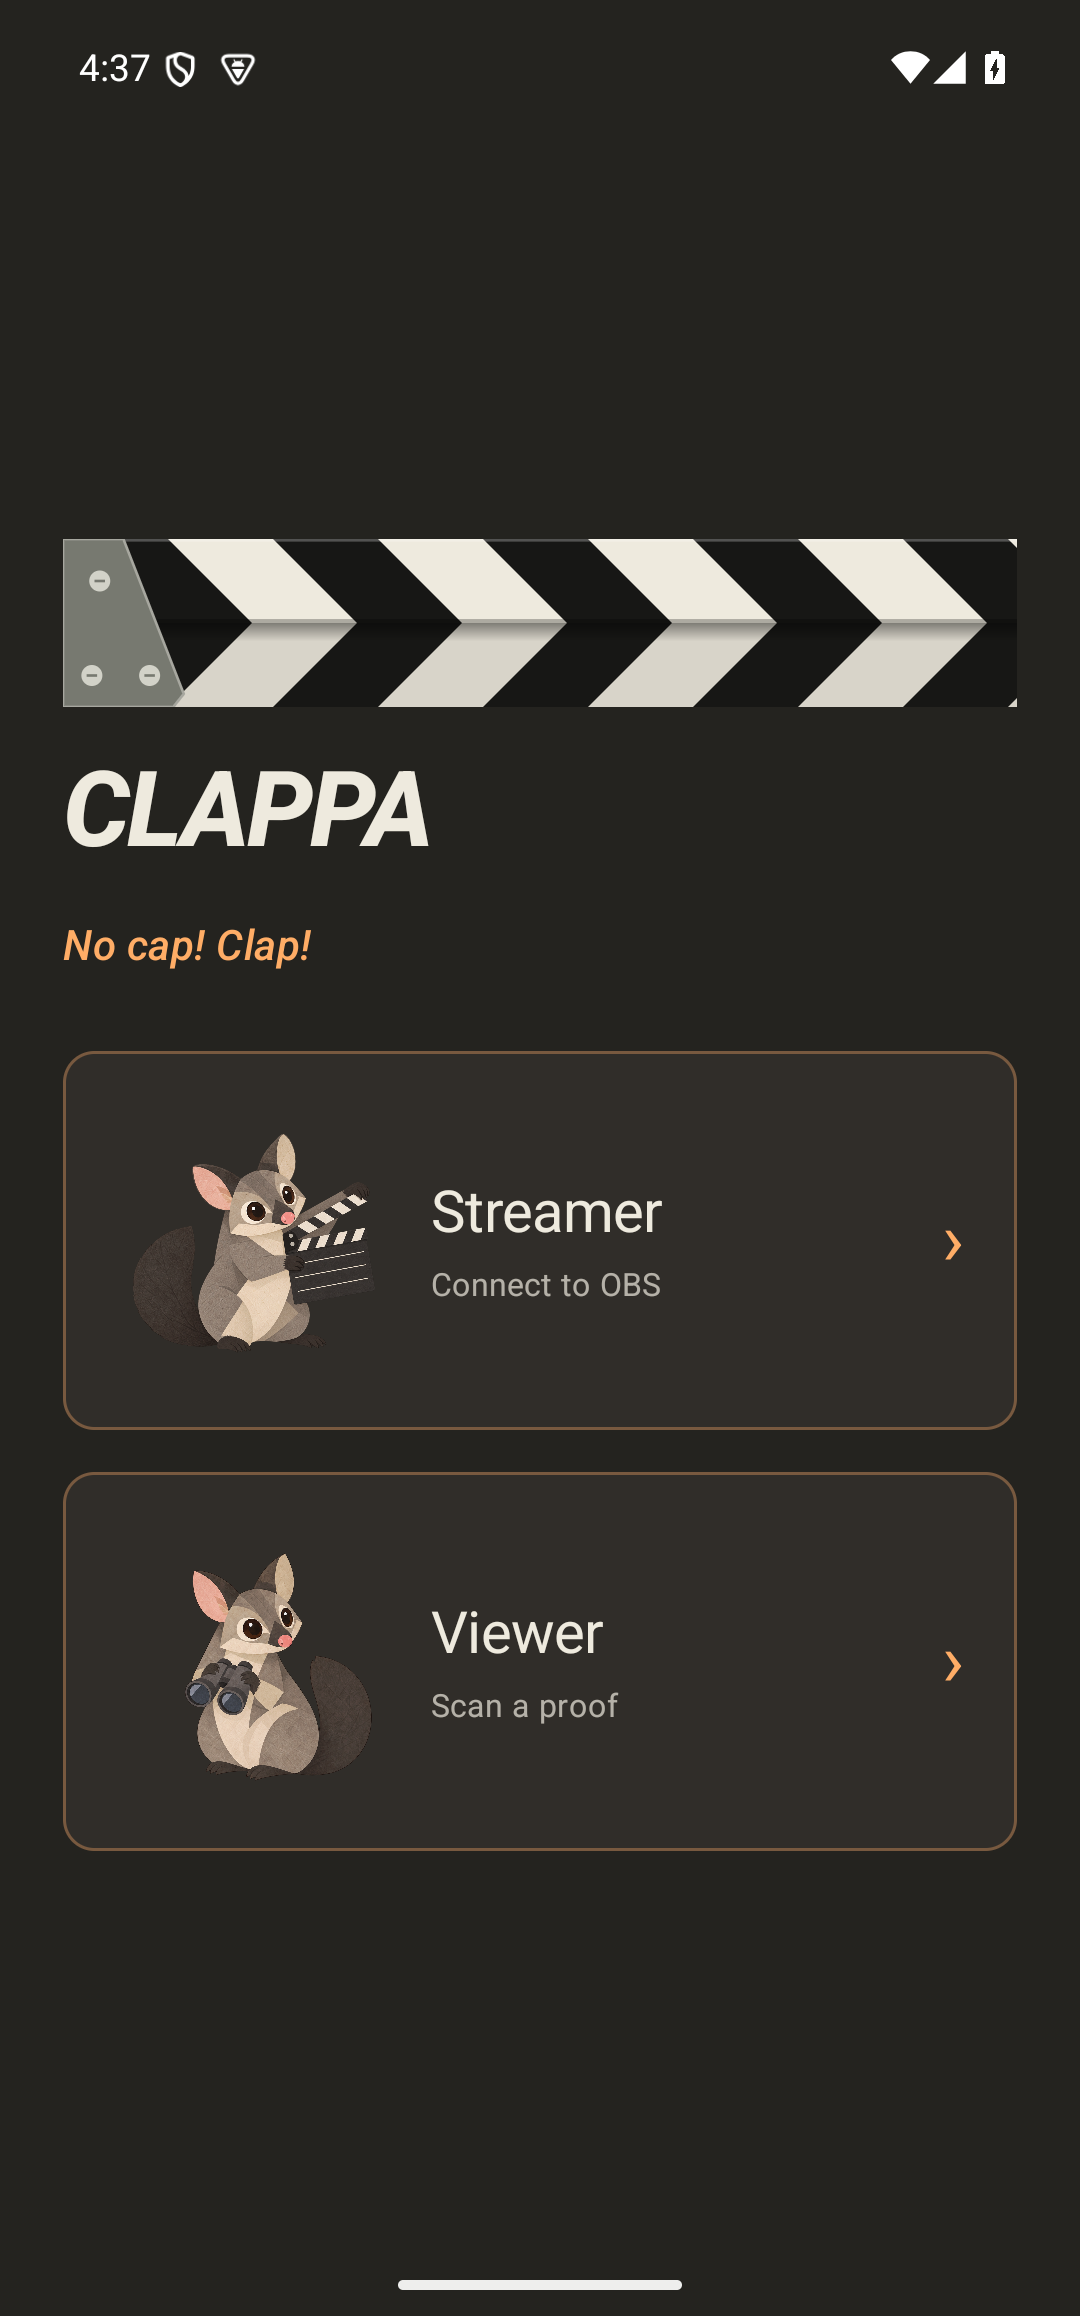
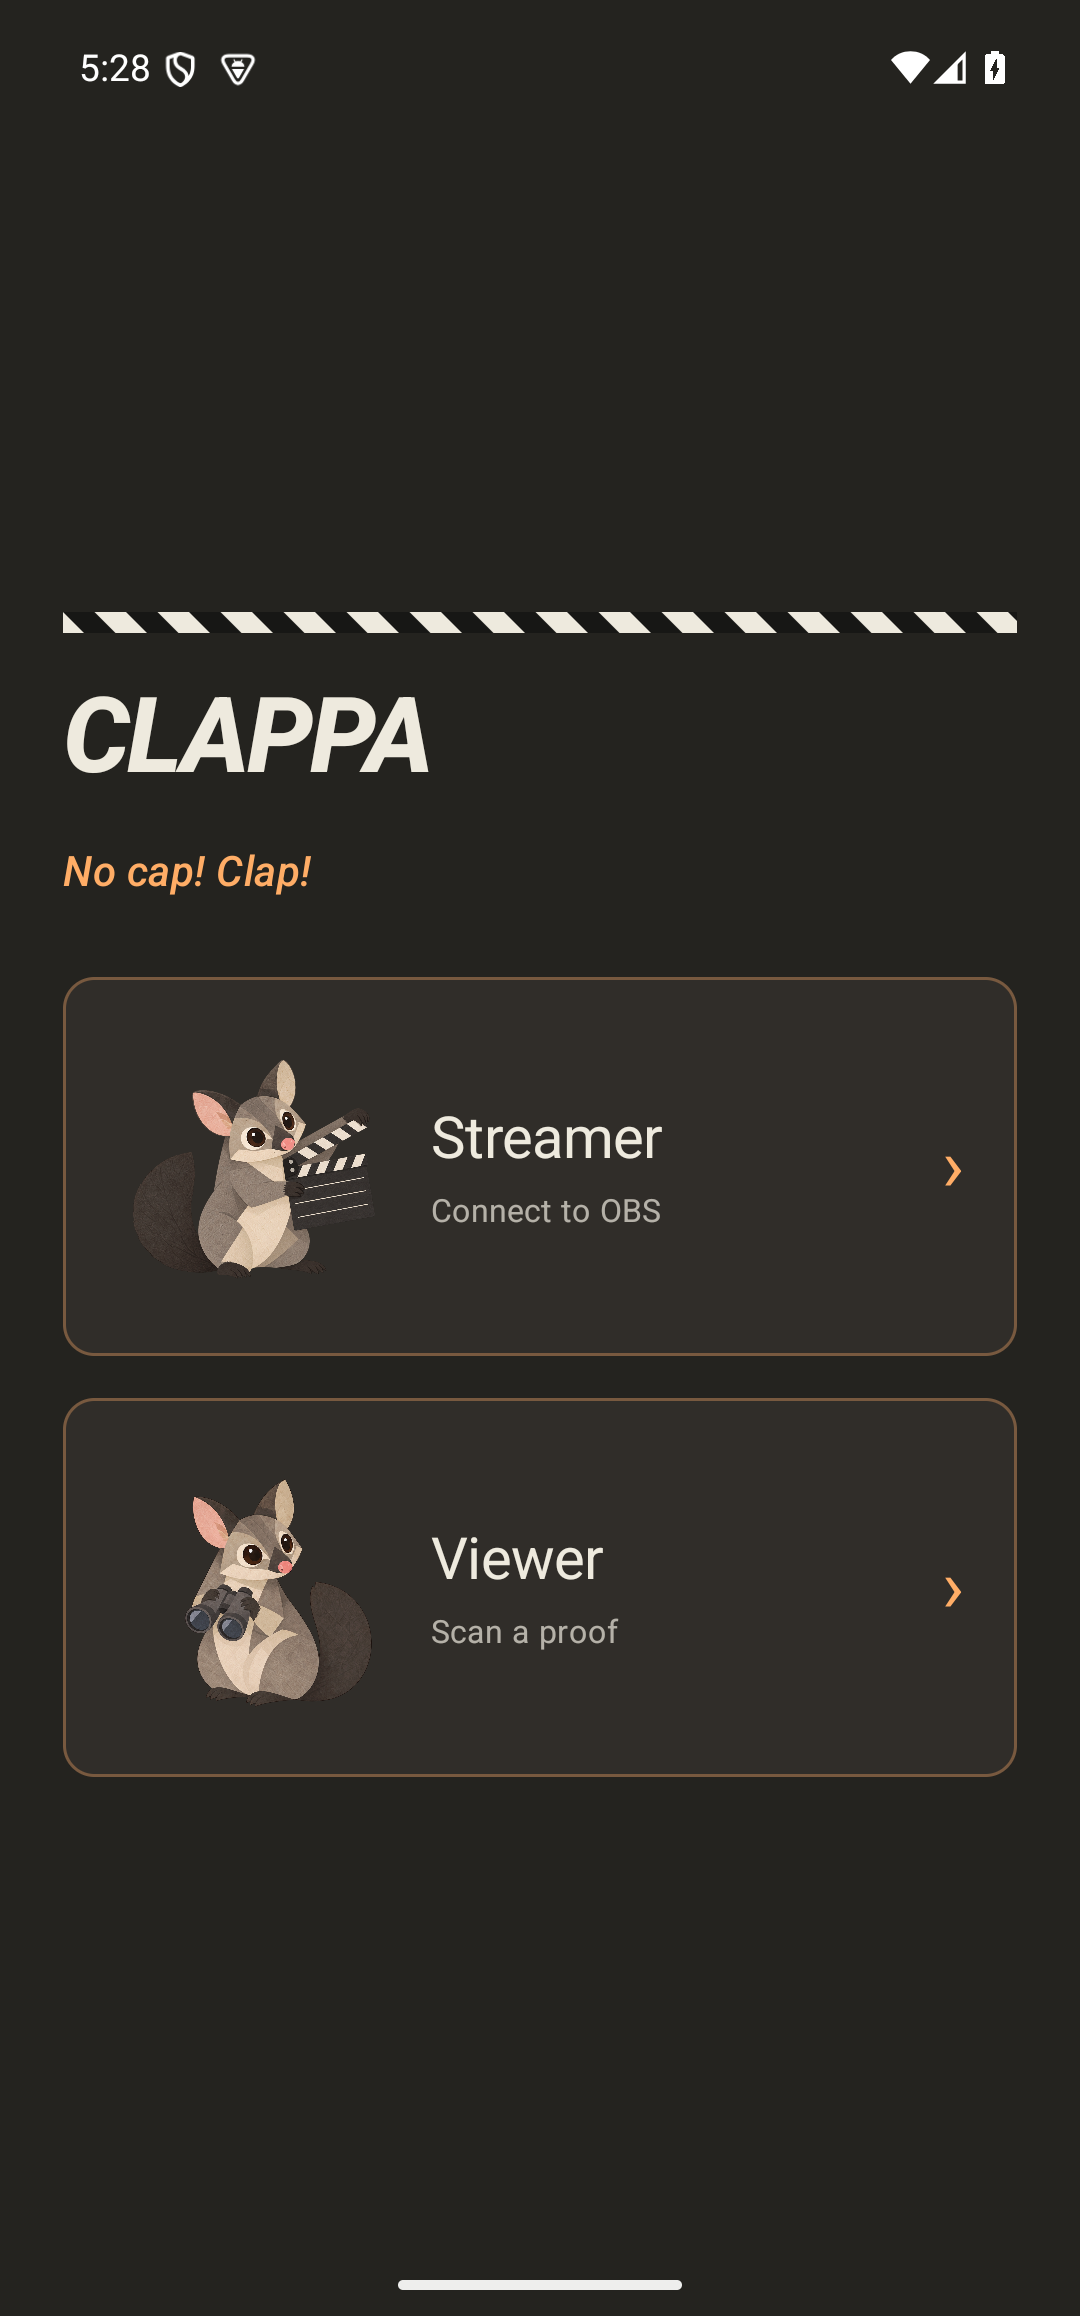
Use slim menu accents and reduce OBS header height

diff --git a/android/app/src/main/java/org/clappa/app/ViewerActivity.kt b/android/app/src/main/java/org/clappa/app/ViewerActivity.kt
@@ -35,7 +35,7 @@ import java.util.concurrent.Executors
 class HomeActivity:ComponentActivity(){
  override fun onCreate(savedInstanceState:Bundle?){super.onCreate(savedInstanceState);enableEdgeToEdge(statusBarStyle=androidx.activity.SystemBarStyle.dark(0xff24231f.toInt()),navigationBarStyle=androidx.activity.SystemBarStyle.dark(0xff24231f.toInt()));setContent{
   ClappaScreenTheme{BoxWithConstraints(Modifier.fillMaxSize().safeDrawingPadding(),contentAlignment=androidx.compose.ui.Alignment.Center){val wide=maxWidth>maxHeight;Column(Modifier.widthIn(max=if(wide)840.dp else 560.dp).fillMaxWidth().verticalScroll(rememberScrollState()).padding(24.dp),verticalArrangement=Arrangement.spacedBy(if(wide)8.dp else 16.dp)){
-   ClapperBar()
+   MenuStripe()
    Wordmark(size=if(wide)32 else 40)
    Text("No cap! Clap!",color=MenuOrange,fontStyle=androidx.compose.ui.text.font.FontStyle.Italic,style=MaterialTheme.typography.titleMedium,modifier=Modifier.padding(bottom=if(wide)0.dp else 12.dp))
    @Composable fun ModeCard(viewer:Boolean,modifier:Modifier){
@@ -69,7 +69,7 @@ open class ViewerActivity:ComponentActivity(){
  private val permission=registerForActivityResult(ActivityResultContracts.RequestPermission()){ok->cameraAllowed=ok;if(!ok)error="Camera permission is needed to scan a stream." else scanning=true}
  override fun onCreate(savedInstanceState:Bundle?){super.onCreate(savedInstanceState);enableEdgeToEdge(statusBarStyle=androidx.activity.SystemBarStyle.dark(0xff24231f.toInt()),navigationBarStyle=androidx.activity.SystemBarStyle.dark(0xff24231f.toInt()));cameraAllowed=ContextCompat.checkSelfPermission(this,Manifest.permission.CAMERA)==PackageManager.PERMISSION_GRANTED
   setContent{ClappaScreenTheme{Column(Modifier.fillMaxSize().background(Slate).safeDrawingPadding().padding(16.dp)){
-   ClapperBar()
+   MenuStripe()
    Row(Modifier.fillMaxWidth(),horizontalArrangement=Arrangement.SpaceBetween){Wordmark(size=28);TextButton(onClick={finish()}){Text("Modes")}}
    if(scanning&&cameraAllowed){Camera(Modifier.weight(1f).fillMaxWidth());Text(progress,Modifier.padding(vertical=12.dp));Text("Keep the whole code visible while its frames change.");TextButton(onClick={stopScan()}){Text("Cancel scan")}}
    else{Column(Modifier.weight(1f).verticalScroll(rememberScrollState())){

diff --git a/android/app/src/main/java/org/clappa/app/TwitchSignInActivity.kt b/android/app/src/main/java/org/clappa/app/TwitchSignInActivity.kt
@@ -24,7 +24,7 @@ class TwitchSignInActivity:ComponentActivity(){
  private var message by mutableStateOf("Show your Twitch name on your stream’s proofs.")
  private var busy by mutableStateOf(false)
  override fun onCreate(savedInstanceState:Bundle?){super.onCreate(savedInstanceState);enableEdgeToEdge(statusBarStyle=androidx.activity.SystemBarStyle.dark(0xff24231f.toInt()),navigationBarStyle=androidx.activity.SystemBarStyle.dark(0xff24231f.toInt()));Proof.initialize(this)
-  setContent{ClappaScreenTheme{Column(Modifier.fillMaxSize().background(Slate).safeDrawingPadding().verticalScroll(rememberScrollState()).padding(24.dp),verticalArrangement=Arrangement.Center){ClapperBar();Spacer(Modifier.height(16.dp));Wordmark(size=36);Text("Your Twitch account",style=MaterialTheme.typography.headlineSmall,modifier=Modifier.padding(vertical=16.dp));Text(message)
+  setContent{ClappaScreenTheme{Column(Modifier.fillMaxSize().background(Slate).safeDrawingPadding().verticalScroll(rememberScrollState()).padding(24.dp),verticalArrangement=Arrangement.Center){MenuStripe();Spacer(Modifier.height(16.dp));Wordmark(size=36);Text("Your Twitch account",style=MaterialTheme.typography.headlineSmall,modifier=Modifier.padding(vertical=16.dp));Text(message)
    Button(onClick={begin()},enabled=!busy,modifier=Modifier.padding(top=24.dp).fillMaxWidth()){Text("Sign in with Twitch")}
    TextButton(onClick={TwitchIdentity.clear(this@TwitchSignInActivity);message="Twitch identity removed from future sessions."},enabled=!busy){Text("Remove linked account")}
    TextButton(onClick={finish()}){Text("Back")}

diff --git a/android/app/src/main/java/org/clappa/app/MainActivity.kt b/android/app/src/main/java/org/clappa/app/MainActivity.kt
@@ -296,7 +296,7 @@ open class MainActivity:ComponentActivity() {
         if(settings)androidx.compose.ui.window.Dialog(onDismissRequest={settings=false},properties=androidx.compose.ui.window.DialogProperties(usePlatformDefaultWidth=false)){
           Surface(color=Slate,contentColor=Chalk,modifier=Modifier.fillMaxSize()){
            Column(Modifier.safeDrawingPadding().padding(20.dp)){
-            ClapperBar()
+            MenuStripe()
             Row(Modifier.fillMaxWidth(),horizontalArrangement=Arrangement.SpaceBetween,verticalAlignment=Alignment.CenterVertically){Text("Settings",style=MaterialTheme.typography.headlineSmall);OutlinedButton(onClick={settings=false}){Text("Done")}}
             Column(Modifier.weight(1f).fillMaxWidth().verticalScroll(androidx.compose.foundation.rememberScrollState()),verticalArrangement=Arrangement.spacedBy(10.dp)){
             Text("Twitch account",color=MenuOrange,style=MaterialTheme.typography.titleMedium)

diff --git a/android/app/src/main/java/org/clappa/app/ClappaBoard.kt b/android/app/src/main/java/org/clappa/app/ClappaBoard.kt
@@ -119,6 +119,15 @@ internal data class BoardState(val phase:BoardPhase,val connected:Boolean=false,
  }
 }
 
+@Composable internal fun MenuStripe(){
+ Canvas(Modifier.fillMaxWidth().height(8.dp).clipToBounds()){
+  drawRect(Chalk)
+  val h=size.height;val step=h*3
+  var x=-step
+  while(x<size.width){drawPath(androidx.compose.ui.graphics.Path().apply{moveTo(x,0f);lineTo(x+step/2,0f);lineTo(x+step/2+h,h);lineTo(x+h,h);close()},Color(0xff171715));x+=step}
+ }
+}
+
 @Composable internal fun ClapperBar(angle:Float=0f){
  Canvas(Modifier.fillMaxWidth().height(64.dp).clipToBounds()){
   val c=drawContext.canvas.nativeCanvas;val p=Paint(Paint.ANTI_ALIAS_FLAG);val unit=size.height/64

diff --git a/obs-plugin/src/board-art.h b/obs-plugin/src/board-art.h
@@ -14,7 +14,7 @@ inline void digital(QPainter &p, const QString &s, double x, double y, double sc
  for(auto ch:s){if(ch.isDigit()){p.setBrush(QColor(0,0,0,38));p.drawRoundedRect(QRectF(-1,-1,22.4,34.4),1,1);p.setBrush(QColor("#eeeade"));int m=masks[ch.digitValue()];for(int i=0;i<7;i++)if(m&(1<<i))p.drawRoundedRect(segments[i],1,1);p.translate(24,0);}else{if(ch==':'){p.drawEllipse(QRectF(2,9,3,3));p.drawEllipse(QRectF(2,22,3,3));}p.translate(9,0);}}p.restore();
 }
 inline void jaw(QPainter &p,bool fixed) {
- p.save();p.setClipRect(QRectF(0,fixed?32:0,848,32));
+ p.save();p.scale(1,.8);p.setClipRect(QRectF(0,fixed?32:0,848,32));
  p.fillRect(QRectF(0,fixed?32:0,848,32),QColor(fixed?"#d8d4c9":"#eeeade"));p.setBrush(QColor("#171715"));p.setPen(Qt::NoPen);
  for(int x=-80;x<880;x+=80) {
   if(fixed)p.drawPolygon(QPolygonF({{double(x+32),32},{double(x+72),32},{double(x+40),64},{double(x),64}}));
@@ -25,12 +25,14 @@ inline void jaw(QPainter &p,bool fixed) {
  p.restore();
 }
 inline void bar(QPainter &p,double angle=0) {
- p.save();p.translate(14,16);p.rotate(-angle);p.translate(-14,-16);jaw(p,false);p.restore();
+ p.save();p.translate(14,12.8);p.rotate(-angle);p.translate(-14,-12.8);jaw(p,false);p.restore();
 }
 inline void bracket(QPainter &p) {
+ p.save();p.scale(1,.8);
  p.setPen(QPen(QColor("#a7a79f"),1));p.setBrush(QColor("#777970"));
  p.drawPolygon(QPolygonF({{0,0},{23,0},{46,59},{42,64},{0,64}}));
  for(auto v:{QPointF(14,16),QPointF(11,52),QPointF(33,52)}){p.setBrush(QColor("#d2d2c8"));p.drawEllipse(v,4,4);p.drawLine(v+QPointF(-2,0),v+QPointF(2,0));}
+ p.restore();
 }
 inline void tail(QPainter &p,bool frontOnly=false){
  // One continuous silhouette; depth comes from board occlusion, not erased pixels.
@@ -53,29 +55,29 @@ inline void tail(QPainter &p,bool frontOnly=false){
 // The preview is a transparent arrangement of individually mounted prints.
 // Every print keeps its source aspect ratio; the source canvas stays stable in OBS.
 inline QImage mountedPhotos(const QImage &front,const QImage &rear=QImage()){
- QImage image(1476,876,QImage::Format_ARGB32_Premultiplied);image.fill(Qt::transparent);
+ QImage image(1548,936,QImage::Format_ARGB32_Premultiplied);image.fill(Qt::transparent);
  QPainter p(&image);p.setRenderHint(QPainter::SmoothPixmapTransform);p.setRenderHint(QPainter::Antialiasing);
- const bool dual=!rear.isNull();const double gap=30,available=dual?1446:1476;
+ const bool dual=!rear.isNull();const double gap=30,available=dual?1518:1548;
  const double r1=double(front.width())/front.height(),r2=dual?double(rear.width())/rear.height():0;
- const double h=std::min(810.,(available-(dual?48:24))/(r1+r2));
- const double total=h*(r1+r2)+(dual?48+gap:24);double x=(1476-total)/2;
+ const double h=std::min(870.,(available-(dual?48:24))/(r1+r2));
+ const double total=h*(r1+r2)+(dual?48+gap:24);double x=(1548-total)/2;
  for(const auto &photo:dual?QList<QImage>{front,rear}:QList<QImage>{front}){
-  const double w=h*photo.width()/photo.height(),y=(876-h-36)/2;
+  const double w=h*photo.width()/photo.height(),y=(936-h-36)/2;
   QRectF frame(x,y,w+24,h+36),picture(x+12,y+12,w,h);
   p.fillRect(frame.translated(5,8),QColor(0,0,0,90));p.fillRect(frame,QColor("#f5f0e5"));p.drawImage(picture,photo);
-  p.save();p.translate(frame.center().x(),y+6);p.rotate(x<738?-5:5);p.fillRect(QRectF(-50,-18,100,36),QColor("#c7b991"));p.restore();
+  p.save();p.translate(frame.center().x(),y+6);p.rotate(x<774?-5:5);p.fillRect(QRectF(-50,-18,100,36),QColor("#c7b991"));p.restore();
   x+=w+24+gap;
  }
  return image;
 }
 inline void drawPhoto(QPainter &p,const QImage &photo){
- p.save();p.setRenderHint(QPainter::SmoothPixmapTransform);p.drawImage(QRectF(10,76,504,299),photo);p.restore();
+ p.save();p.setRenderHint(QPainter::SmoothPixmapTransform);p.drawImage(QRectF(8,62,516,312),photo);p.restore();
 }
 inline QImage dualPhoto(const QImage &front,const QImage &rear){return mountedPhotos(front,rear);}
 inline QImage proof(const QImage &photo,const QImage &qr,qint64 at,const QString &prompt,bool fresh=false,const QString &twitchName={}) {
  QImage im(Width*3,Height*3,QImage::Format_ARGB32_Premultiplied);im.fill(Qt::transparent);QPainter p(&im);p.setRenderHint(QPainter::Antialiasing);p.setRenderHint(QPainter::TextAntialiasing);p.scale(3,3);p.translate(12,40);
- p.fillRect(QRectF(0,32,848,408),QColor("#2d2c27"));
- p.setPen(QPen(QColor(255,255,255,25),1));p.drawLine(1,65,1,438);p.drawLine(1,438,846,438);
+ p.fillRect(QRectF(0,25.6,848,414.4),QColor("#2d2c27"));
+ p.setPen(QPen(QColor(255,255,255,25),1));p.drawLine(1,52,1,438);p.drawLine(1,438,846,438);
  jaw(p,true);
 
  drawPhoto(p,photo);
@@ -96,7 +98,7 @@ inline QImage proof(const QImage &photo,const QImage &qr,qint64 at,const QString
  return im;
 }
 inline QImage arming(const QImage &qr,const QString &digest,qint64 target){
- QImage im(Width*3,Height*3,QImage::Format_ARGB32_Premultiplied);im.fill(Qt::transparent);QPainter p(&im);p.setRenderHint(QPainter::Antialiasing);p.setRenderHint(QPainter::TextAntialiasing);p.scale(3,3);p.translate(12,40);p.fillRect(QRectF(0,32,848,408),QColor("#2d2c27"));jaw(p,true);
+ QImage im(Width*3,Height*3,QImage::Format_ARGB32_Premultiplied);im.fill(Qt::transparent);QPainter p(&im);p.setRenderHint(QPainter::Antialiasing);p.setRenderHint(QPainter::TextAntialiasing);p.scale(3,3);p.translate(12,40);p.fillRect(QRectF(0,25.6,848,414.4),QColor("#2d2c27"));jaw(p,true);
  p.setPen(QColor("#eeeade"));QFont font("Arial");font.setPixelSize(31);font.setBold(true);p.setFont(font);p.drawText(QRectF(24,130,490,50),"Challenge locked");font.setPixelSize(19);font.setBold(false);p.setFont(font);p.drawText(QRectF(24,192,490,40),"Waiting for the fresh beacon…");font.setPixelSize(15);p.setFont(font);p.drawText(QRectF(24,247,480,40),"Stream commitment · "+digest);
  p.drawText(QRectF(24,389,640,34),"Quicknet pulse · "+QDateTime::fromMSecsSinceEpoch(target,Qt::UTC).toString("HH:mm:ss 'GMT'"));p.drawImage(QRectF(536,80,292,292),qr);
  font.setPixelSize(24);font.setBold(true);font.setItalic(true);p.setFont(font);p.drawText(QRectF(717,402,111,32),Qt::AlignRight|Qt::AlignVCenter,"CLAPPA");return im;

diff --git a/AGENTS.md b/AGENTS.md
@@ -6,6 +6,8 @@
 
 # AGENTS.md — CLAPPA Repository Instructions
 
+**Test16.1 refinement:** Ordinary phone menus use only an 8dp diagonal stripe accent, no hinge or metal plate. Reserve the complete skeuomorphic board for capture. OBS jaws/hinge are 20% shorter; enlarged photo region preserves aspect ratio. Keep QR geometry unchanged. This supersedes Test16's full menu-jaw headers.
+
 **Test16 presentation contract:** Shared charcoal surfaces, mirrored black/white clapper jaws and orange accents apply to home, viewer, settings and OBS dock menus. Streamer settings are full-screen and scrollable; Viewer mode belongs on the home menu. Use distinct headings and outlined controls, with text explaining recording-locked camera settings instead of a disabled switch. OBS public identity is selectable/copyable in Settings, never appended to status prose. Every photo is an independent aspect-preserving taped print; do not reintroduce a framed landscape composite around multiple photos. Source dimensions remain stable. See docs/test16.md.
 
 **Test14 (2026-10-01):** Streamer/Viewer modes and optional Twitch OIDC evidence now exist. Preserve the nonce binding to the phone key, separately signed per-photo identity binding, first full token/later digest-reference QR policy, and explicit unverified state when issuer evidence or trusted Twitch keys are missing. Never publish an access token or client secret. Callback is exactly `http://localhost:3000`, a short-lived phone loopback listener; old custom-scheme redirect advice was incorrect. Native viewer uses the generated shared schema and real signature/beacon verification. Live account authorization is not yet confirmed. See `docs/test14.md` and `docs/review14/TWITCH-IDENTITY.md`; do not relabel fixture signatures as real Twitch authorization.

diff --git a/README.md b/README.md
@@ -10,7 +10,7 @@ CLAPPA pairs an Android phone with OBS. Tap the clapperboard, hear a little musi
 
 No CLAPPA account. No hosted proof storage. Your signing identity and original evidence stay with you.
 
-**[Download the Test16 preview](https://github.com/dagnabbitdamien/clappa/releases/tag/test16)** · [Build notes](docs/test16.md) · [Developer setup](docs/GITHUB.md)
+**[Download the Test16.1 preview](https://github.com/dagnabbitdamien/clappa/releases/tag/test16.1)** · [Build notes](docs/test16.1.md) · [Developer setup](docs/GITHUB.md)
 
 ## For streamers
 
@@ -47,7 +47,7 @@ CLAPPA binds evidence for human judgment. It is not an automatic AI detector. A 
 - [Current architecture](docs/CURRENT-ARCHITECTURE.md)
 - [Protocol and verification](protocol/README.md)
 - [Full design specification](DESIGN_SPEC.md)
-- [Latest build notes](docs/test16.md)
+- [Latest build notes](docs/test16.1.md)
 
 Run the protocol/verifier tests with `pnpm install --frozen-lockfile` followed by `pnpm test` (Node.js 22+). Android and OBS require their respective native toolchains. Private keys, local recordings, proof photos and build caches are excluded from this repository.
 
@@ -56,7 +56,3 @@ No project license has been selected. Existing third-party licenses and asset at
 ## A peek inside
 
 <img src=".github/images/menu.png" width="300" alt="CLAPPA mode menu with approved paper possum illustrations and orange accents">
-
-
-
-

diff --git a/docs/test16.1.md b/docs/test16.1.md
@@ -1,0 +1,7 @@
+# Test16.1 — restrained menu accents
+
+Phone home, viewer, Twitch and settings menus use one 8dp diagonal striped band, with no hinge or metal hardware. The capture board retains its full skeuomorphic jaws and hinge.
+
+OBS's two jaws and hinge are 20% shorter vertically (64 to 51.2 source units). The photo region grows from 504×299 to 516×312, with a proportionally matched internal canvas. Independent print borders and tape remain. The QR grid, module size, quiet zone, location and motion protection are unchanged. The source remains 872×480.
+
+Android 0.3.0-test16.1 (24). Update APK and OBS plugin. This presentation revision does not change proof contents or the cryptographic protocol. Test16's end-to-end verification remains the latest full capture-to-seal run; this revision checks builds, native menus and renderer layouts.

diff --git a/docs/release16.1.md b/docs/release16.1.md
@@ -1,0 +1,7 @@
+# Smaller accents, more photo space
+
+- Phone menus use a slim striped accent instead of a full hinged clapperboard.
+- OBS top jaws and hinge are 20% shorter; photos have a larger display area.
+- QR size and scan geometry are preserved.
+
+Update both APK and OBS DLL. Presentation-only test release; native menu and renderer layouts reviewed. Live Twitch authorization remains unverified.
